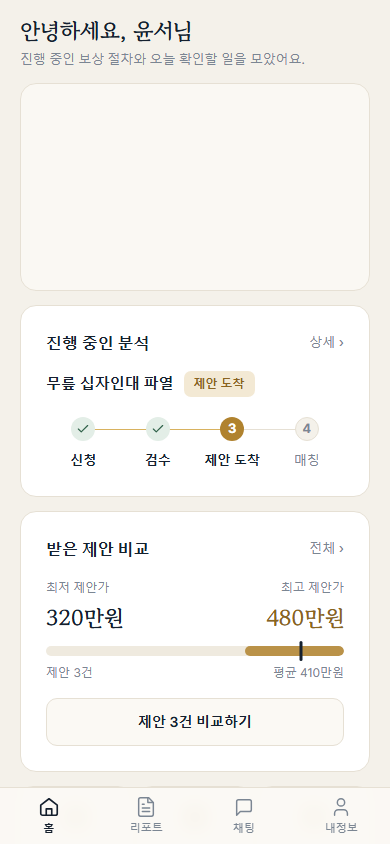
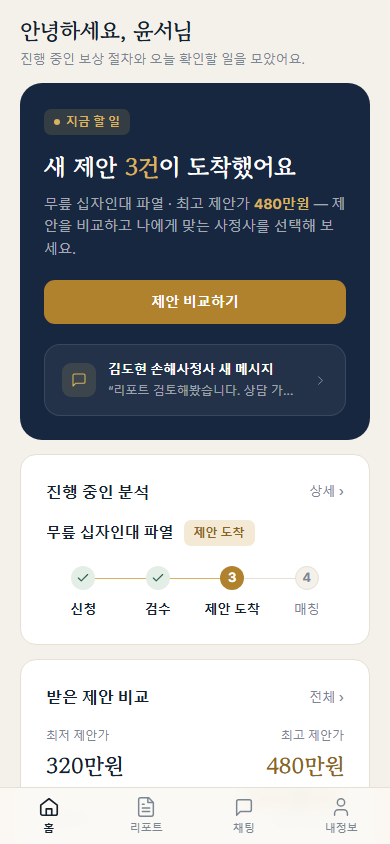
chore : PR 259 스크린샷 재캡처

diff --git a/apps/web/e2e/_capture-259.spec.ts b/apps/web/e2e/_capture-259.spec.ts
@@ -22,6 +22,11 @@ test.describe("앱 UA", () => {
 
   test("01 앱 하단 탭바 높이", async ({ page }) => {
     await page.goto("/customer/dashboard");
+    // 지금 할 일 카드는 서스펜스 폴백(스켈레톤)을 거친다 — 본문이 뜬 뒤 찍는다.
+    // 같은 문구가 데스크톱 트리에도 있어(md 분기) 보이는 요소만 고른다.
+    await expect(
+      page.getByText("새 제안 3건이 도착했어요").filter({ visible: true }),
+    ).toBeVisible({ timeout: 15000 });
     await expect(page.getByRole("link", { name: "내정보", exact: true })).toBeVisible({
       timeout: 15000,
     });
